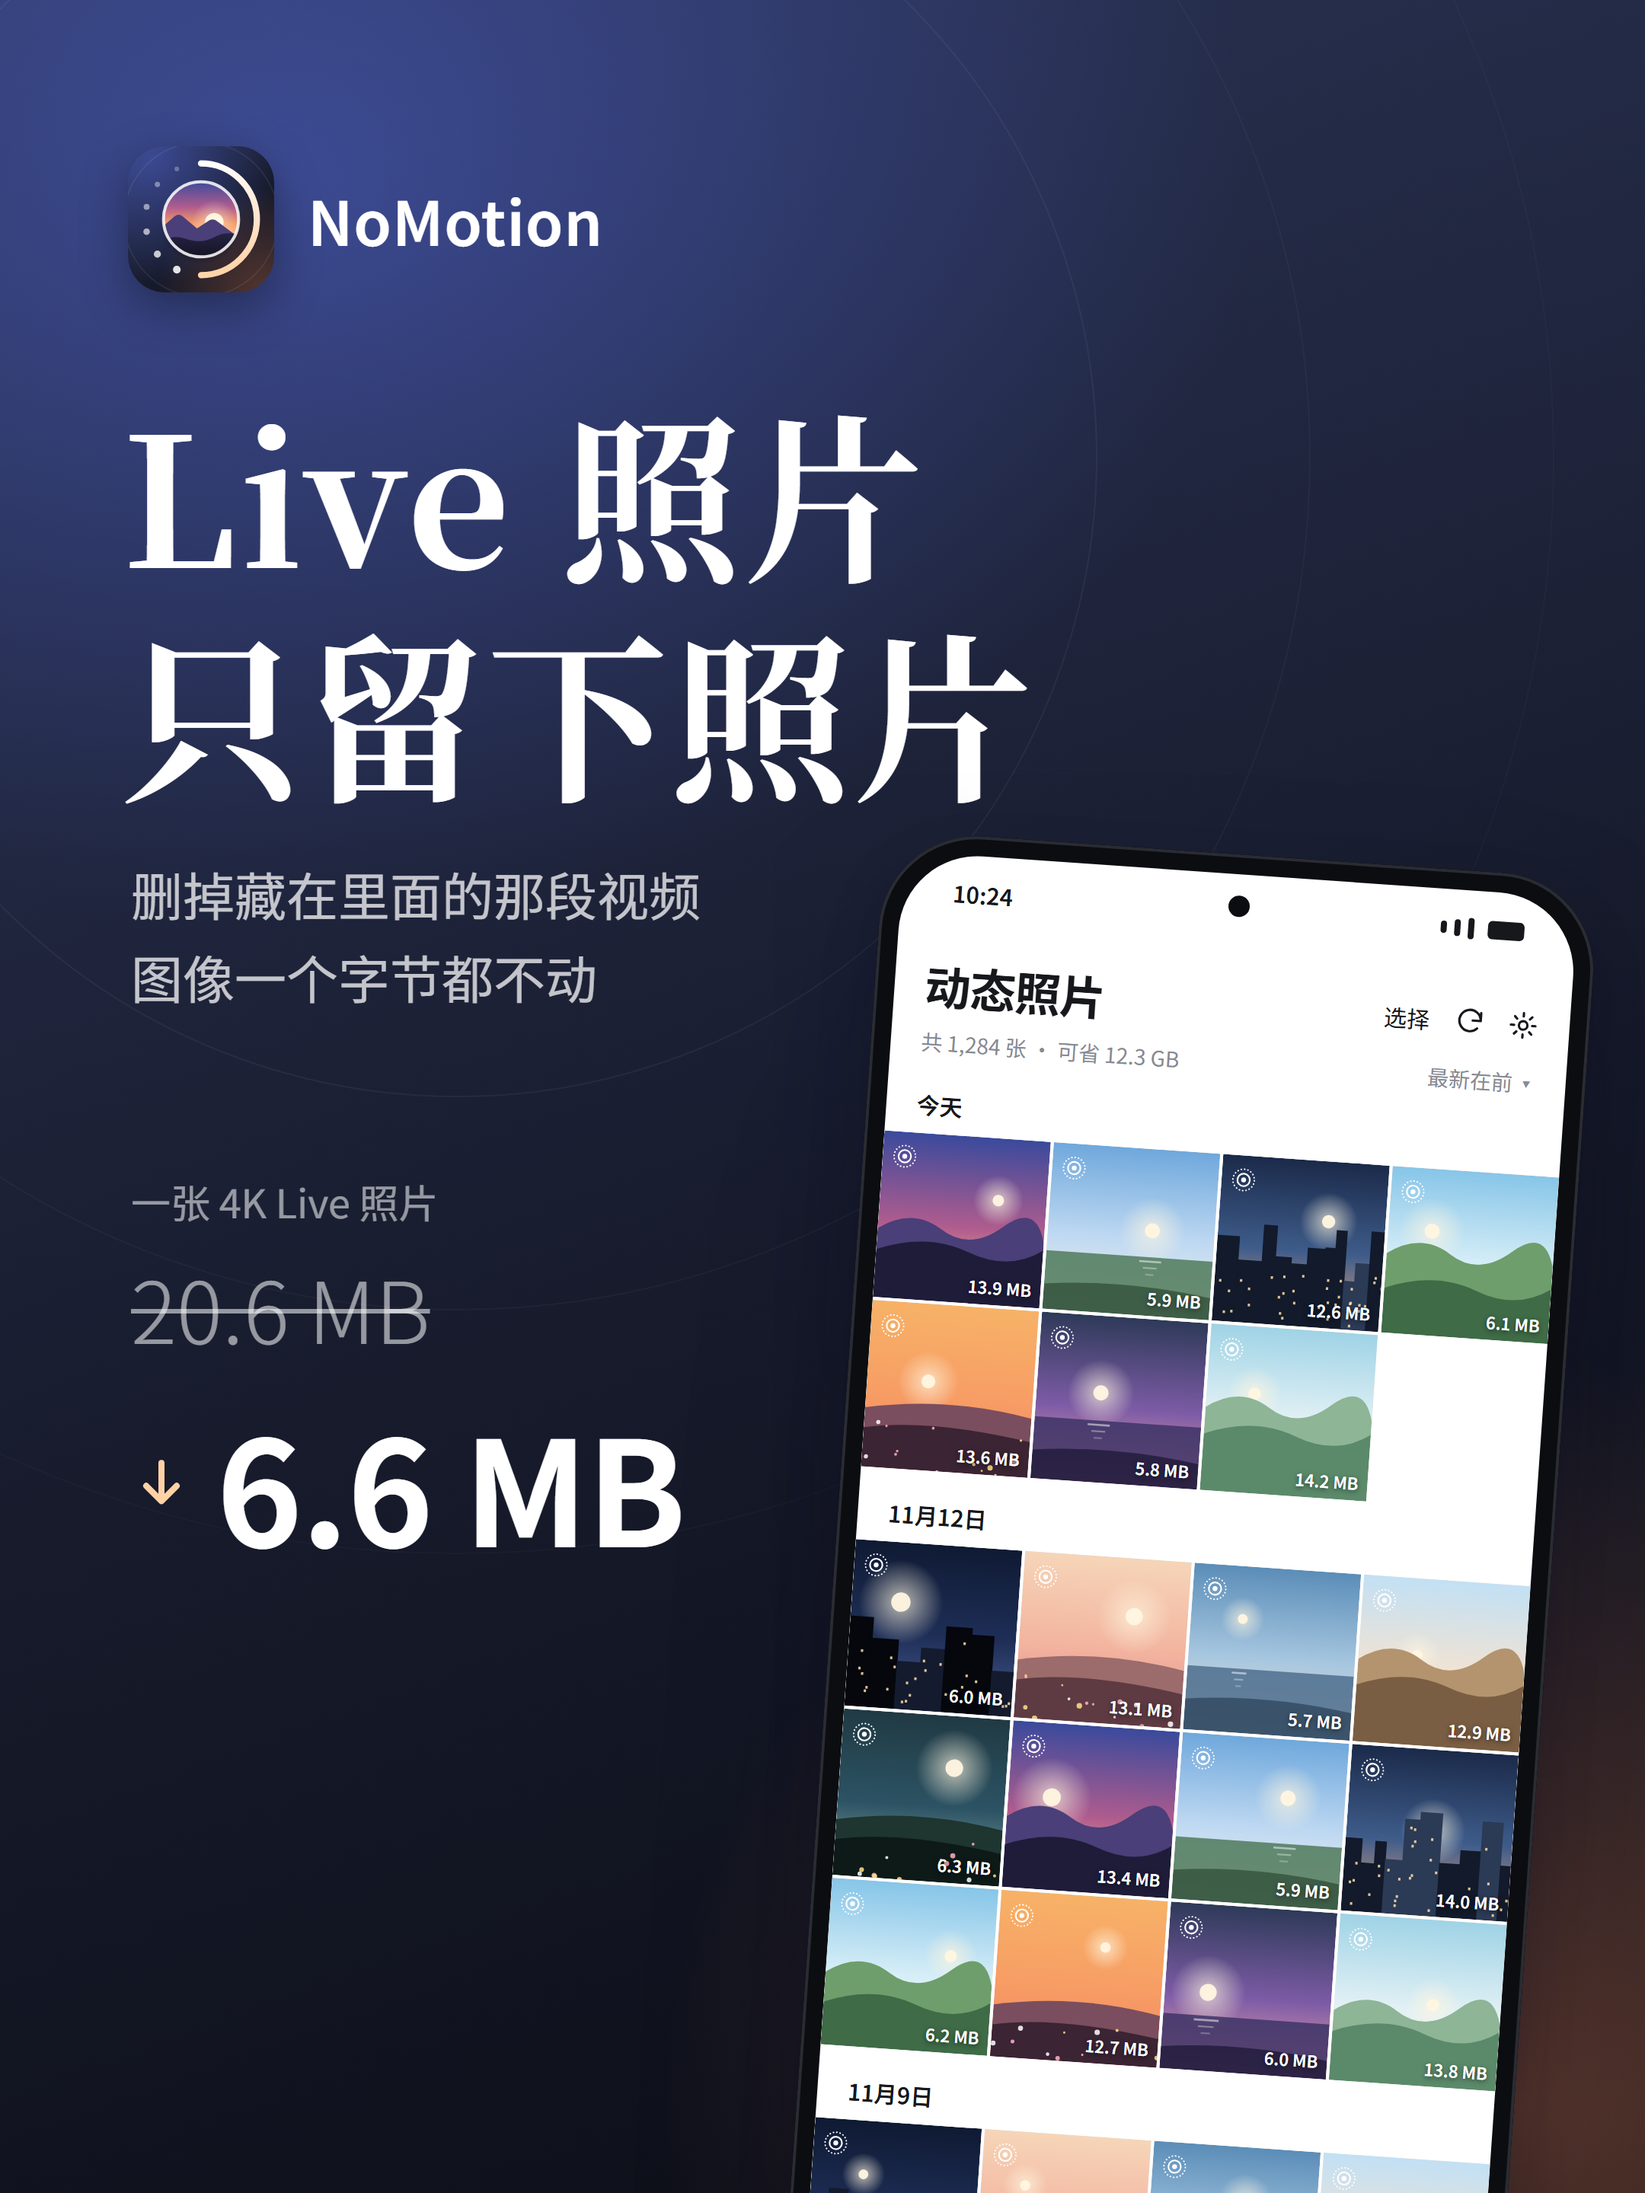
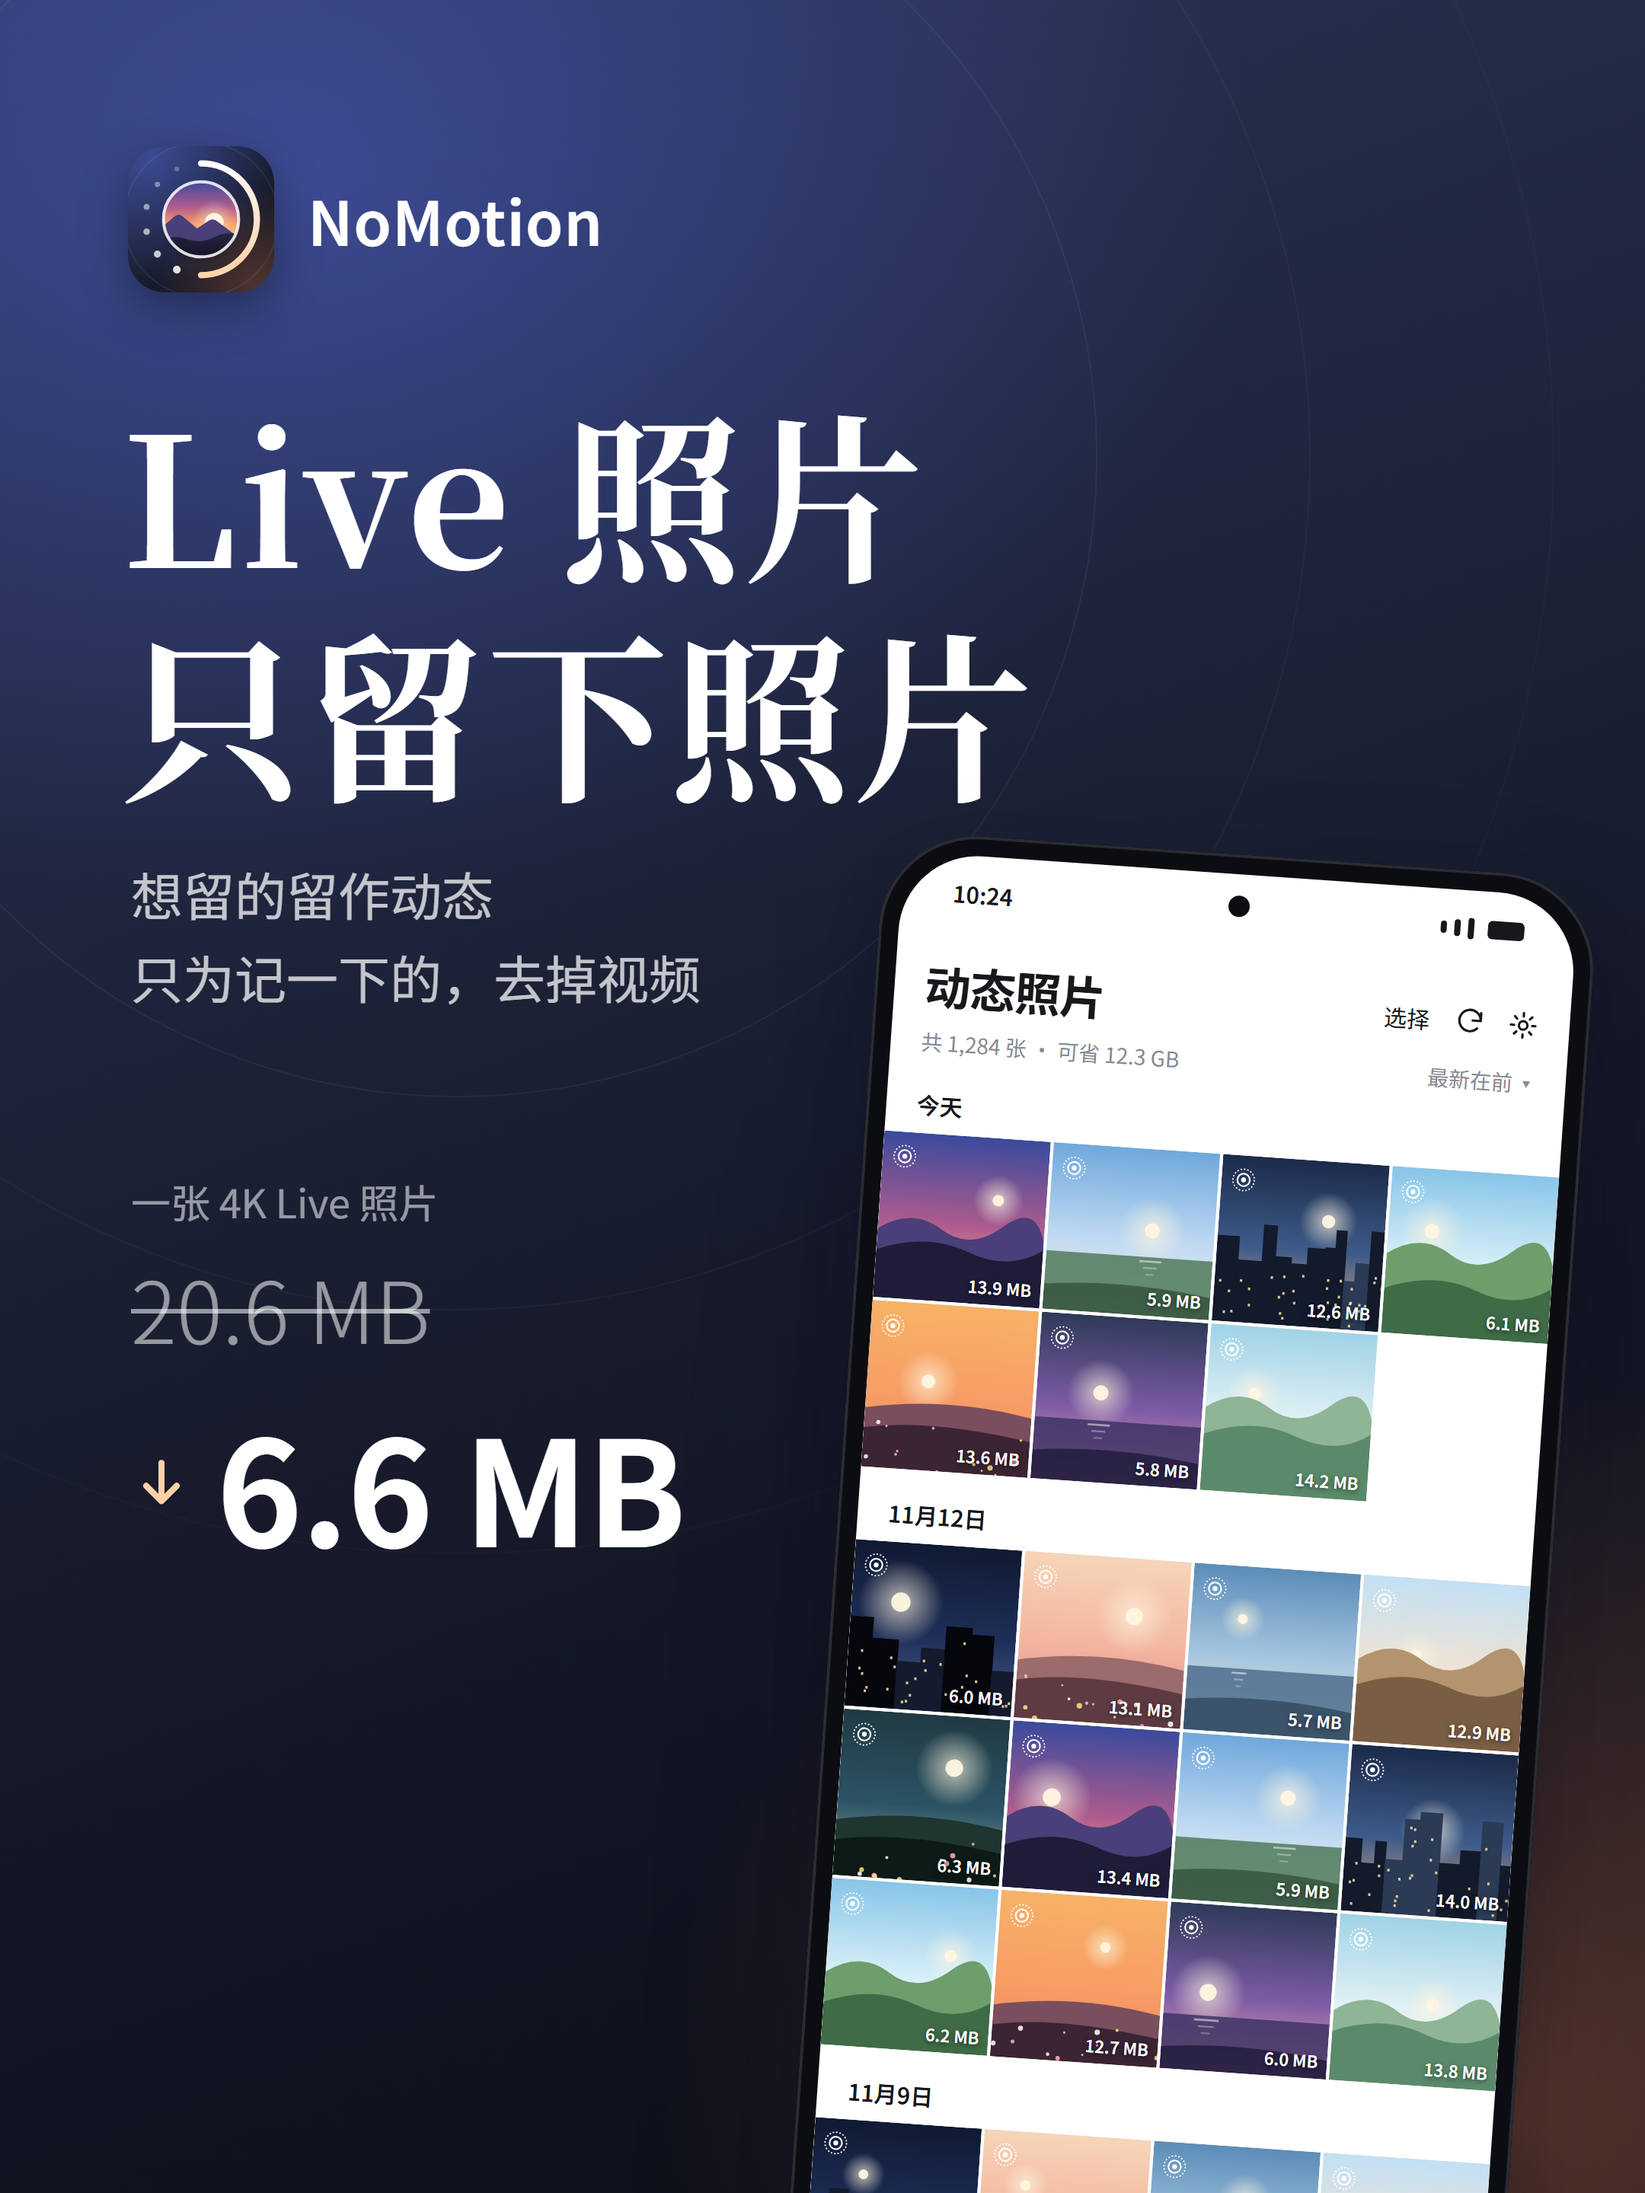
宣传图换成新版：补上只为记一下的照片这层意思

Changed region(s): [[0.062, 0.375, 0.4343, 0.4688]]

diff --git a/README.md b/README.md
@@ -6,8 +6,8 @@
 
 <p>
   <img src="images/01.png" width="32%">
+  <img src="images/02.png" width="32%">
   <img src="images/03.png" width="32%">
-  <img src="images/04.png" width="32%">
 </p>
 
 ## 能处理的照片
